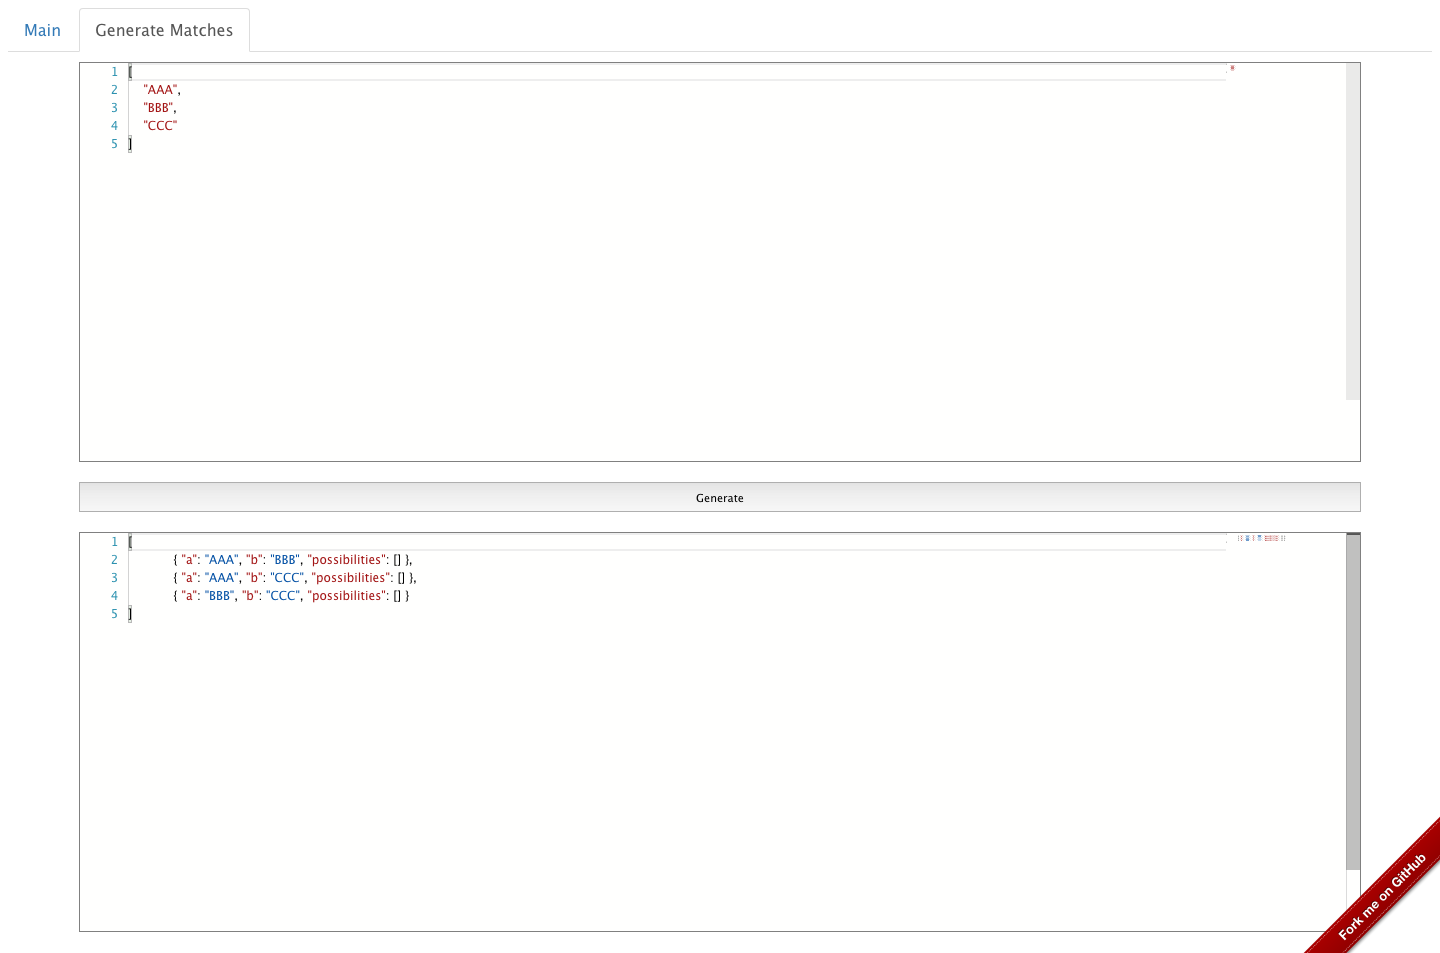
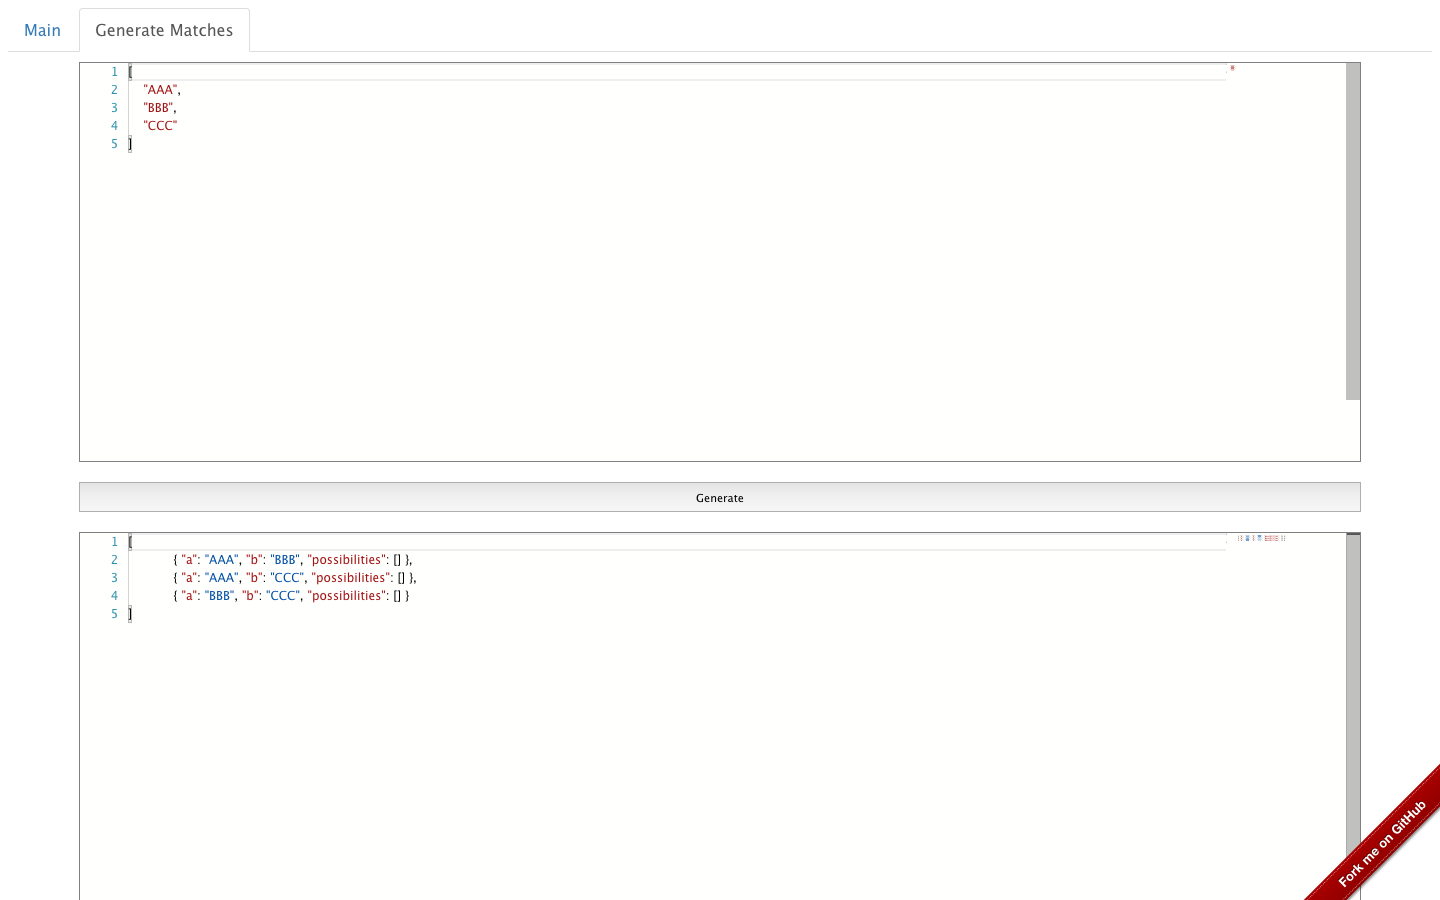
improve screenshot

diff --git a/screenshots/index.ts b/screenshots/index.ts
@@ -6,20 +6,20 @@ import * as puppeteer from "puppeteer";
     await page.emulate({ viewport: { width: 1440, height: 900 }, userAgent: "Mozilla/5.0 (Macintosh; Intel Mac OS X 10_12_5) AppleWebKit/537.36 (KHTML, like Gecko) Chrome/60.0.3112.113 Safari/537.36" });
     await page.goto(`http://localhost:8000`);
     await page.waitFor(2000);
-    await page.screenshot({ path: `screenshots/initial.png`, fullPage: true });
+    await page.screenshot({ path: `screenshots/initial.png` });
 
     await page.click("button");
     await page.waitFor(100);
-    await page.screenshot({ path: `screenshots/calculate.png`, fullPage: true });
+    await page.screenshot({ path: `screenshots/calculate.png` });
 
     const tabs = await page.$$(".tab-title li");
     await tabs[1].click();
     await page.waitFor(100);
-    await page.screenshot({ path: `screenshots/second-tab.png`, fullPage: true });
+    await page.screenshot({ path: `screenshots/second-tab.png` });
 
     await page.click(".generate-matches button");
     await page.waitFor(100);
-    await page.screenshot({ path: `screenshots/generate.png`, fullPage: true });
+    await page.screenshot({ path: `screenshots/generate.png` });
 
     browser.close();
 })();
